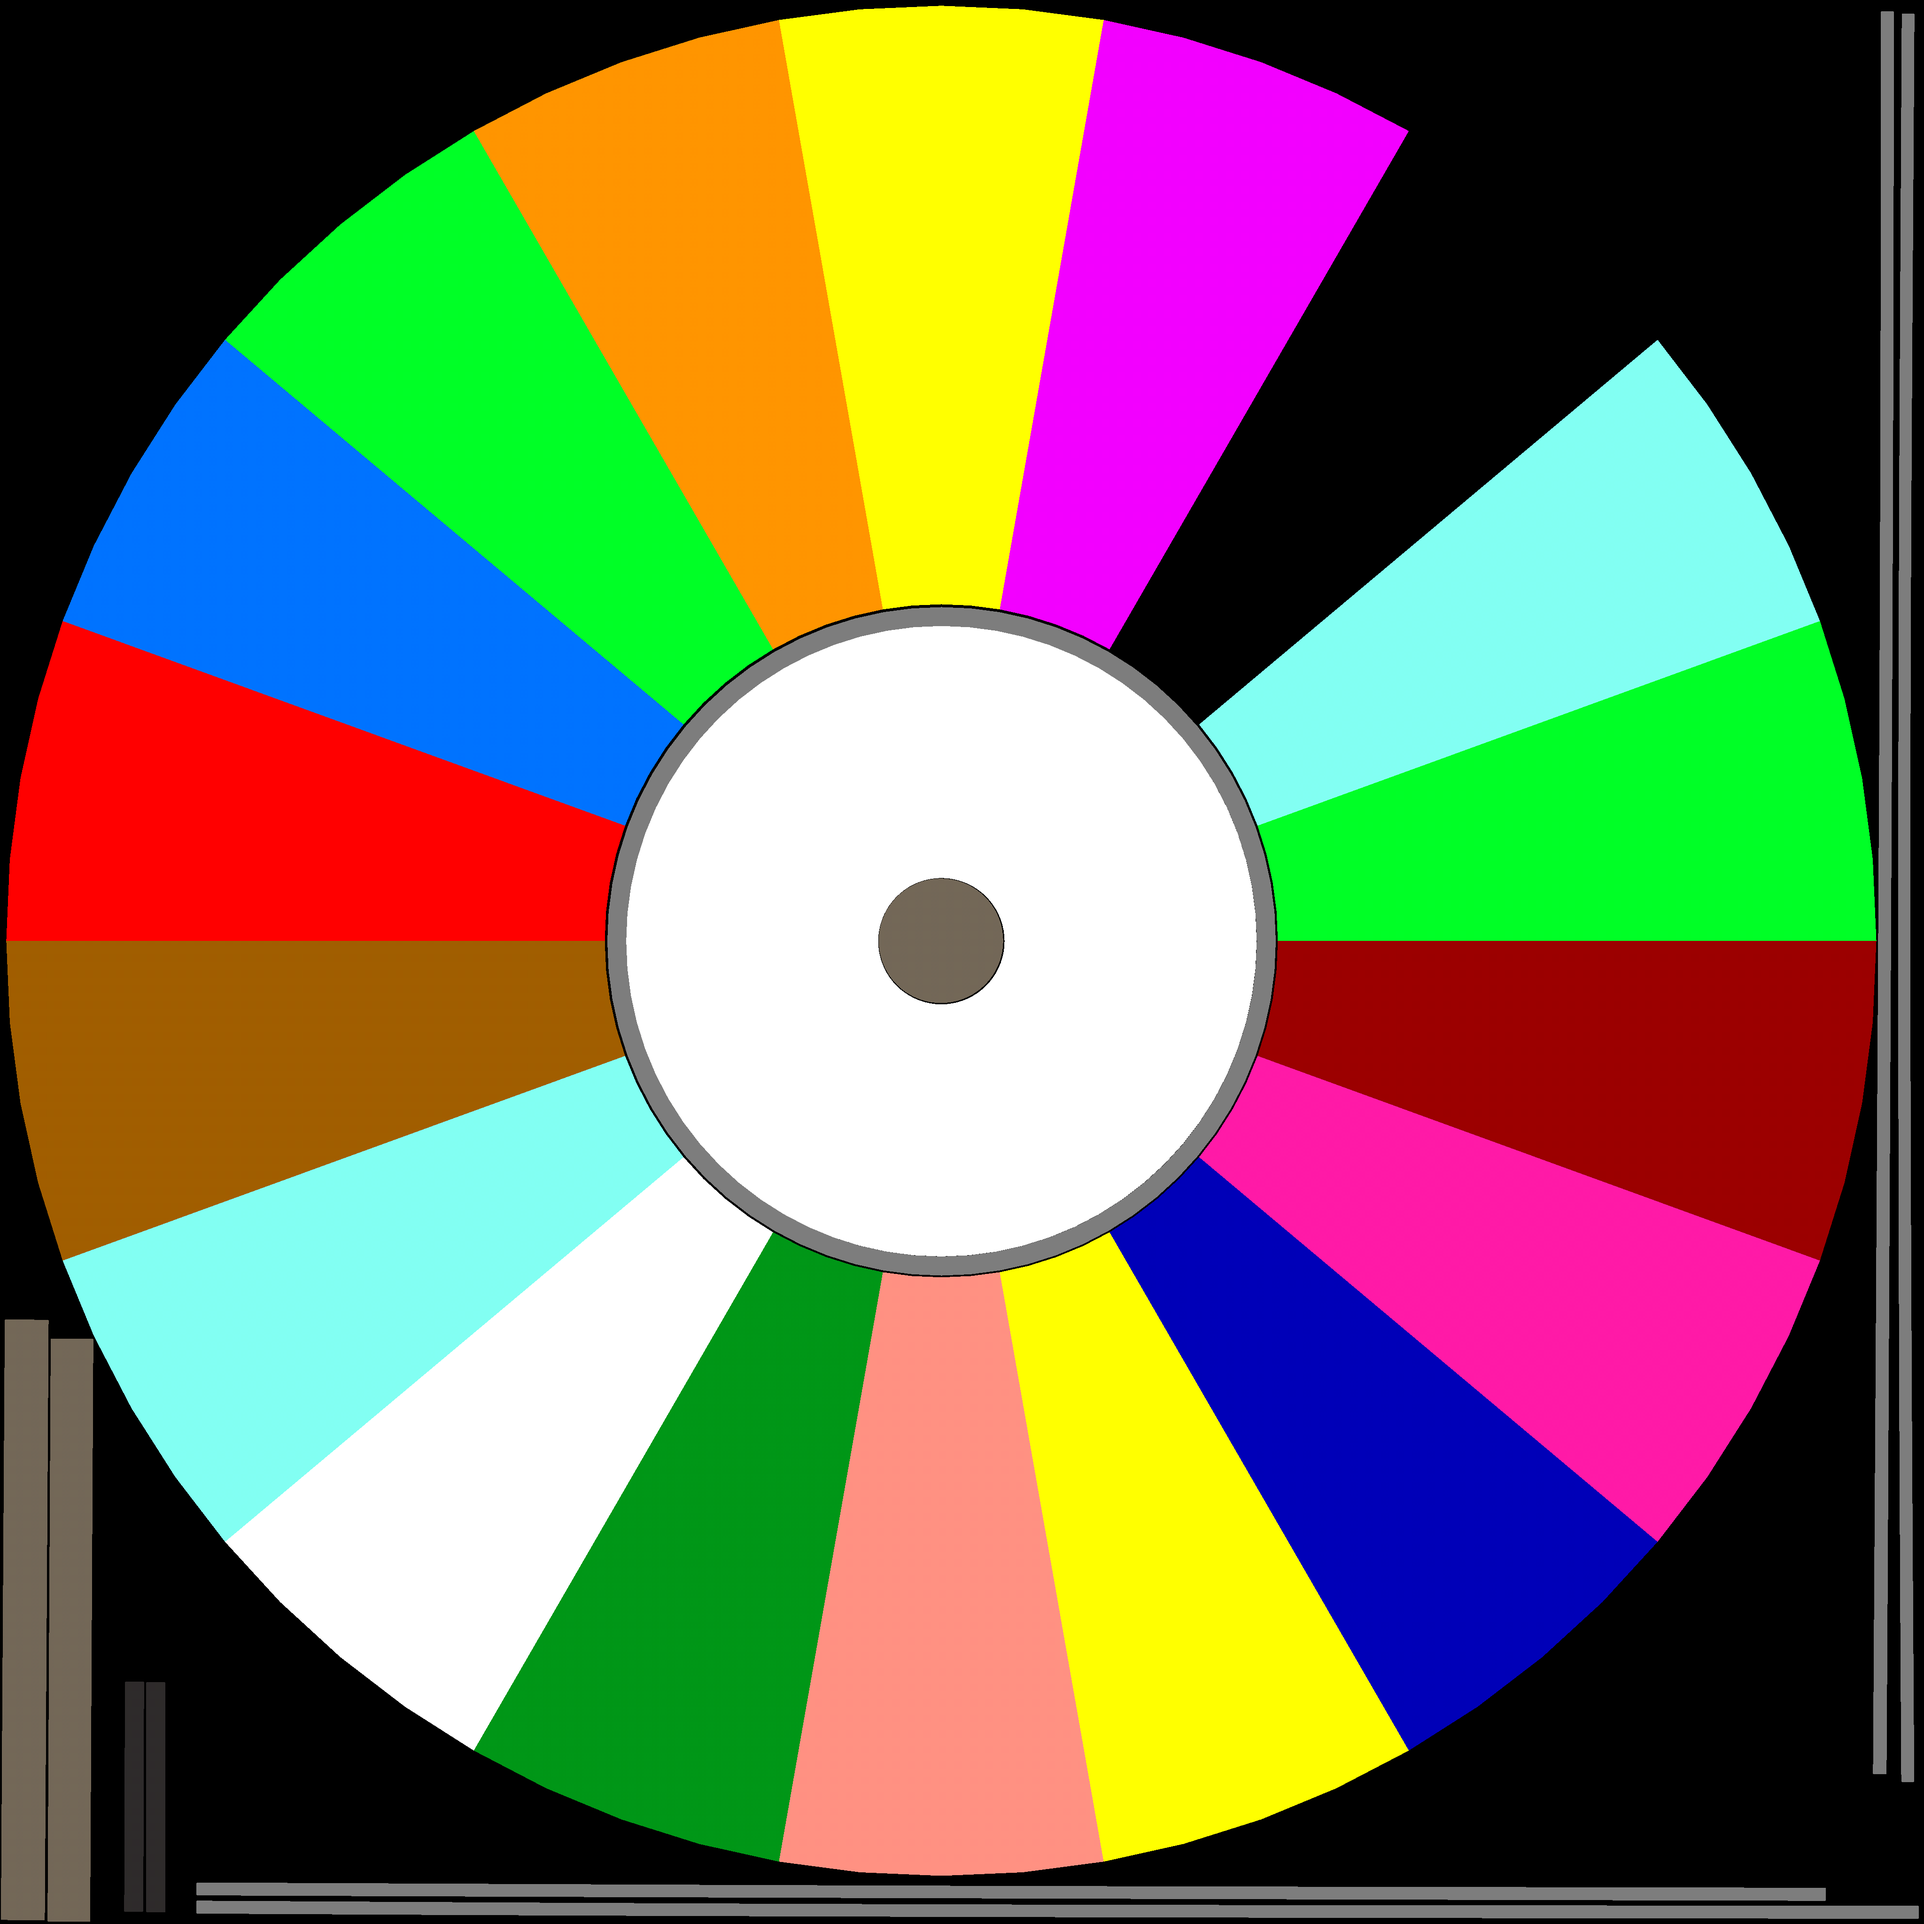
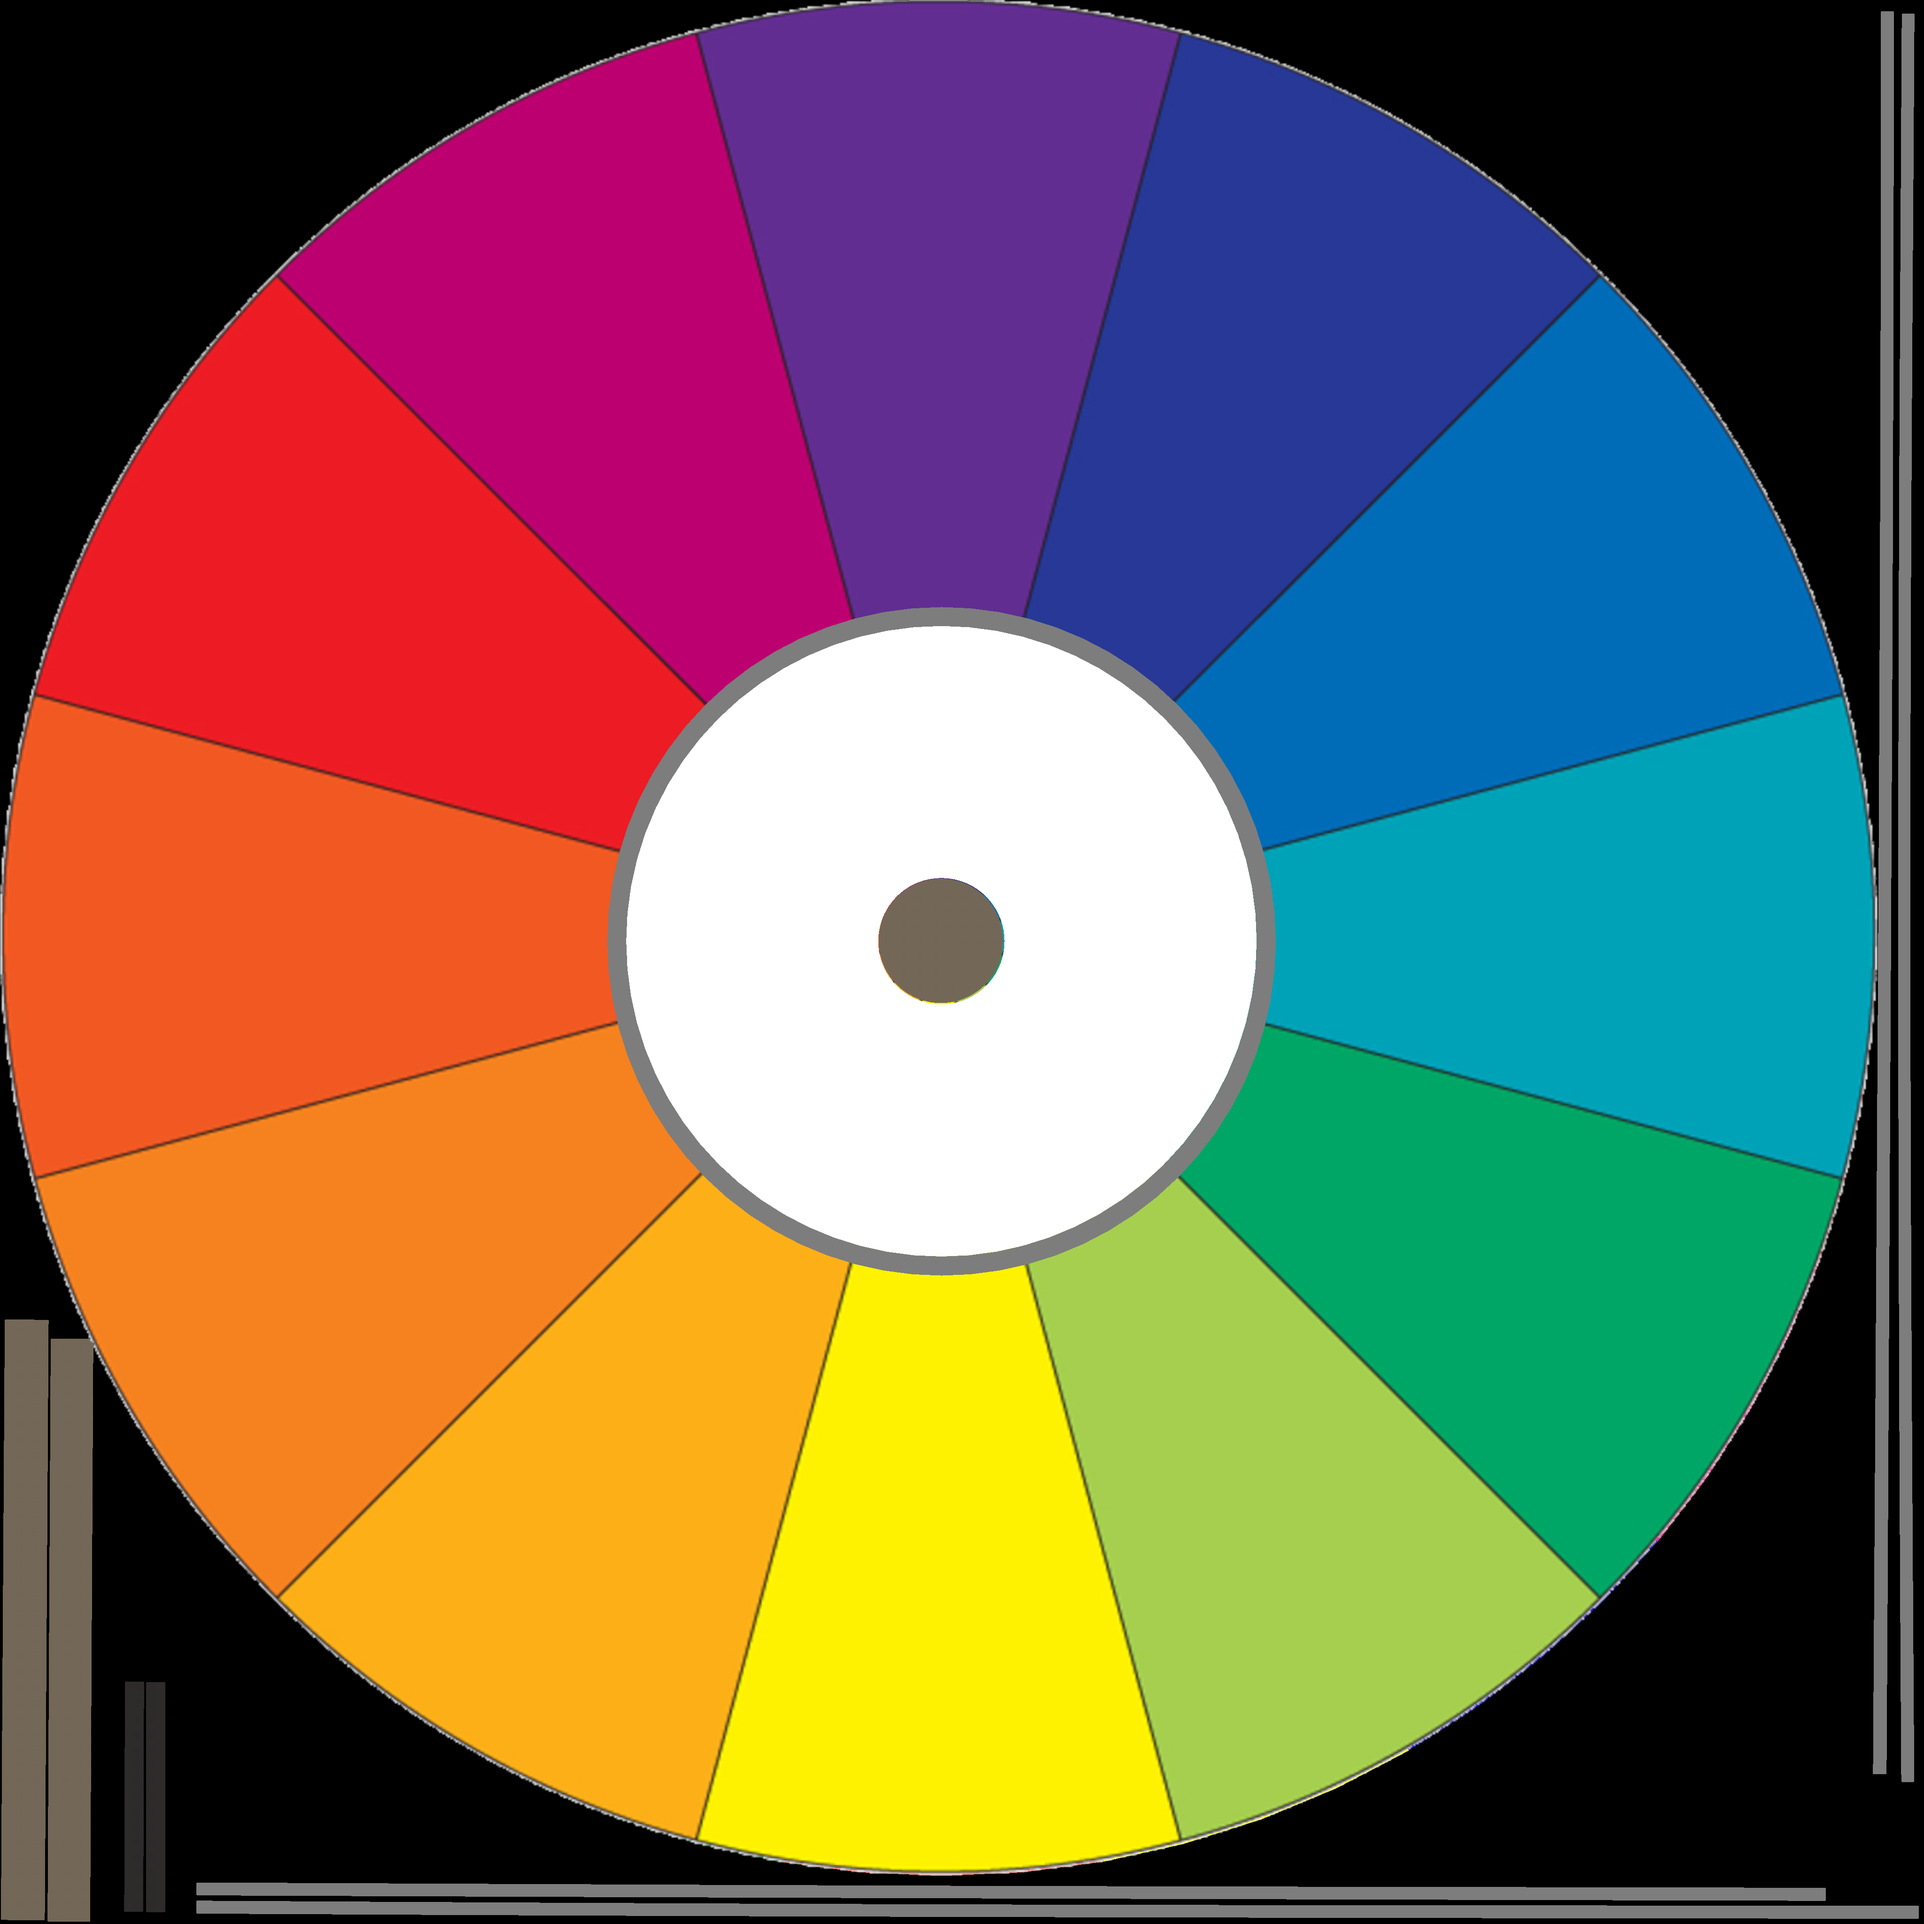
new skin + tweaks

diff --git a/scripts/main.js b/scripts/main.js
@@ -101,8 +101,8 @@ function main() {
     var currentTime = (new Date).getTime();
     
     if (lastUpdateTime && startSpinning) {
-      var t =  ( (currentTime - lastUpdateTime) / 1000.0 ) % 1.0
-      g_time += utils.ExponentialImpulse(g_time+t, 2.0) / 60.0
+      var t =  ( (currentTime - lastUpdateTime) / 1000.0 )
+      g_time += (utils.ExponentialImpulse(g_time+t, 1.0) / 100.0 )
       console.log(g_time)
       last_rotation = g_time % 1.00
     }

diff --git a/scripts/gui.js b/scripts/gui.js
@@ -2,7 +2,7 @@ var spinTime;
 
 function spin(){
     startSpinning = true;
-    spinTime = (Math.random() * 2.0 + 3.0)
+    spinTime = (Math.random() * 2.0 + 5.0)
 
     setTimeout(()=>{
         startSpinning = false;
